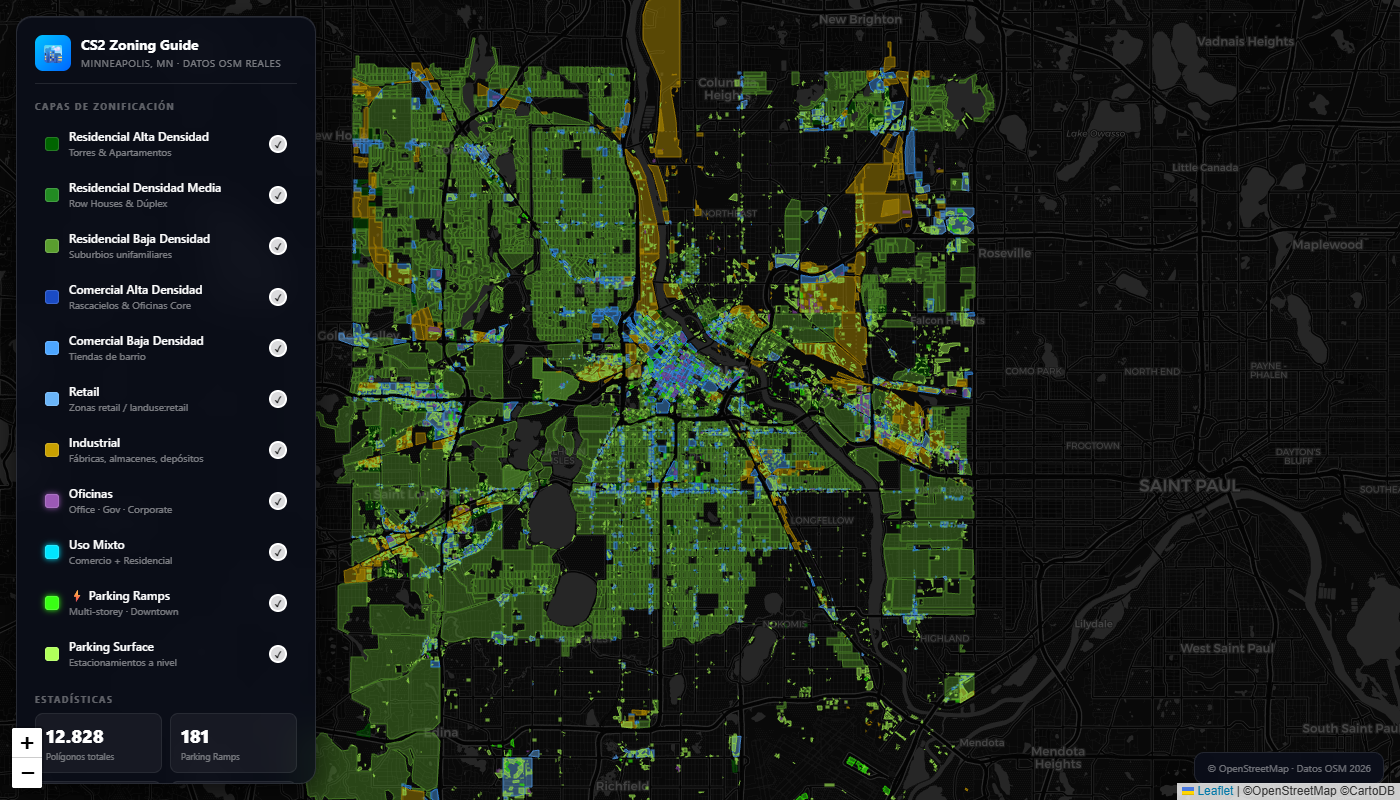
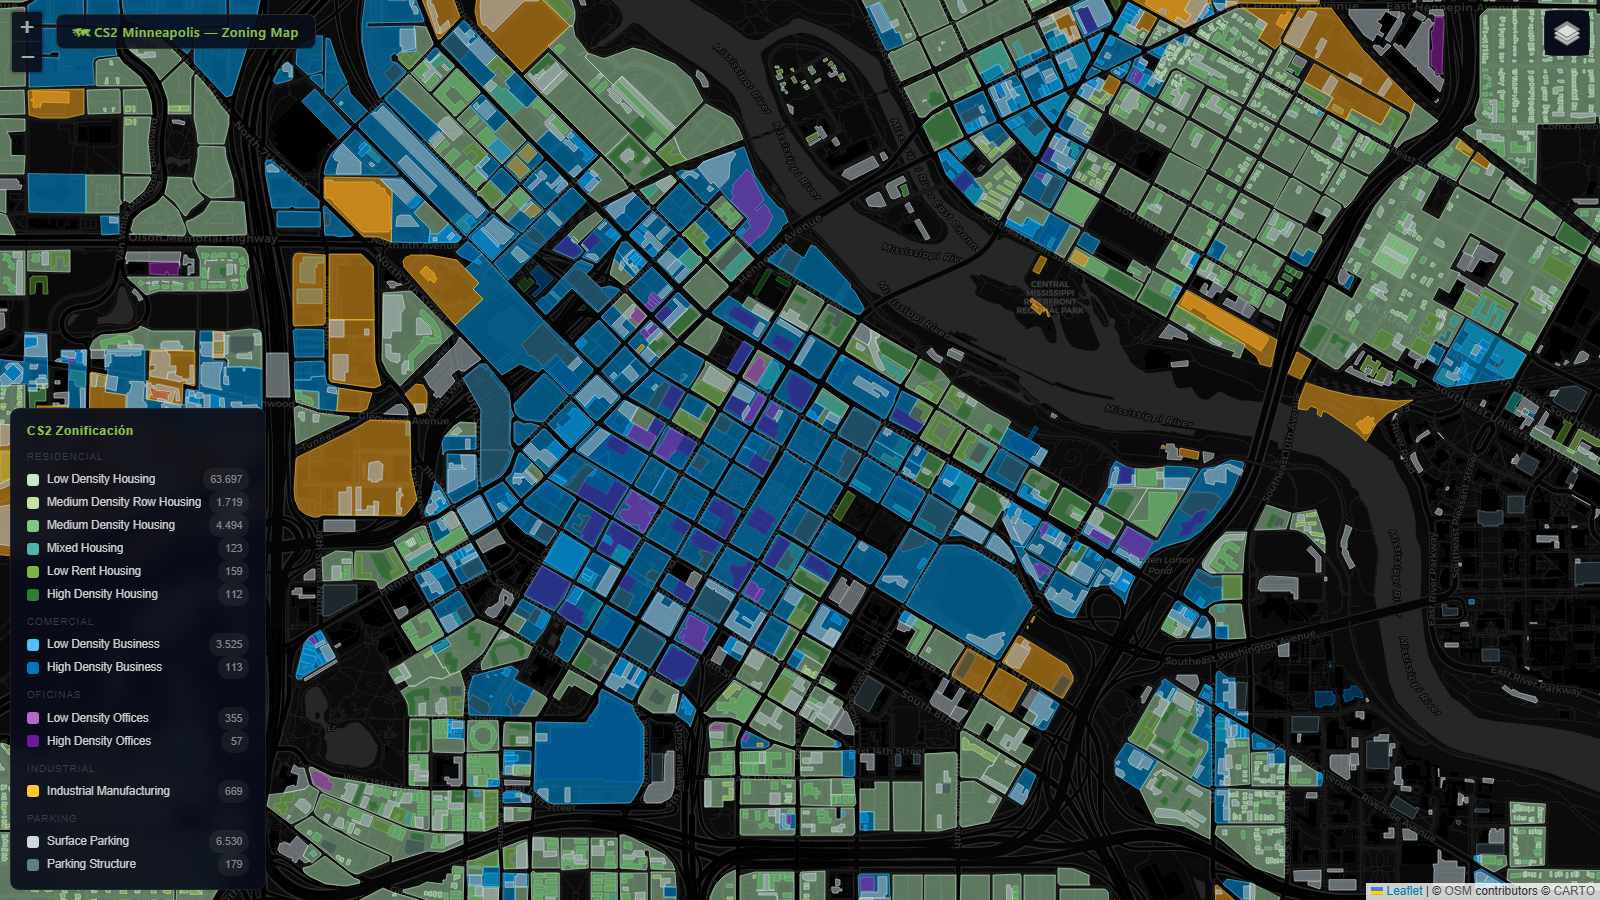
docs: refresh screenshots to v3.0 (Canvas + tier hiding + 13 zones visible)
- Replace v1.0 preview_full.png with fresh capture at zoom 12 showing all
  13 CS2 zones across Minneapolis silhouette
- Replace v1.0 preview_downtown.png with downtown zoom 15 (Mississippi
  River, high-density commercial blocks, office purple visible)
- Add new preview_uptown.png showing residential grid + Bde Maka Ska area
- Add src/take_screenshots.py — Playwright-based screenshot generator
  for anyone who wants to regenerate fresh captures of their own bbox

diff --git a/src/take_screenshots.py b/src/take_screenshots.py
@@ -1,0 +1,66 @@
+"""
+take_screenshots.py — Generate fresh screenshots of the visualizer for the README.
+
+Uses Playwright (headless Chromium) to load the visualizer and capture the map
+at multiple zoom levels. Assumes the python http.server is running on :8080.
+
+Usage:
+    # In one terminal:
+    cd ../visualizer && python -m http.server 8080
+
+    # In another:
+    cd src && uv run --with playwright take_screenshots.py
+    # First time: also run `uv run --with playwright playwright install chromium`
+"""
+
+import sys
+from pathlib import Path
+from playwright.sync_api import sync_playwright
+
+OUT_DIR = Path(__file__).parent.parent / "docs" / "screenshots"
+URL = "http://localhost:8080"
+VIEWPORT = {"width": 1600, "height": 900}
+
+
+def main():
+    OUT_DIR.mkdir(parents=True, exist_ok=True)
+
+    with sync_playwright() as p:
+        browser = p.chromium.launch(headless=True)
+        ctx = browser.new_context(viewport=VIEWPORT)
+        page = ctx.new_page()
+
+        print(f"Loading {URL} ...")
+        page.goto(URL, wait_until="domcontentloaded", timeout=30_000)
+        # Wait for prebuilt data + initial render
+        page.wait_for_function(
+            "() => typeof DATA_RES_LOW_HOUSE !== 'undefined' && document.getElementById('loading').style.display === 'none'",
+            timeout=60_000
+        )
+        print("  OKVisualizer loaded")
+
+        shots = [
+            # (name, [lat, lon], zoom, settle_ms)
+            ("preview_full",     [44.97, -93.27], 12, 4000),
+            ("preview_downtown", [44.978, -93.265], 15, 4000),
+            ("preview_uptown",   [44.948, -93.295], 15, 4000),
+        ]
+
+        for name, center, zoom, settle in shots:
+            print(f"Capturing {name} (center={center}, zoom={zoom}) ...")
+            page.evaluate(f"map.setView({center}, {zoom})")
+            page.wait_for_timeout(settle)
+            # Mover el cursor fuera del mapa para que no aparezca en la captura
+            page.mouse.move(1, 1)
+            out_path = OUT_DIR / f"{name}.png"
+            page.screenshot(path=str(out_path), type="png", full_page=False)
+            size_kb = out_path.stat().st_size // 1024
+            print(f"  OKSaved {out_path.name} ({size_kb} KB)")
+
+        browser.close()
+
+    print(f"\nDone. {len(shots)} screenshots in {OUT_DIR}")
+
+
+if __name__ == "__main__":
+    sys.exit(main() or 0)

diff --git a/README.md b/README.md
@@ -26,7 +26,17 @@ No API keys. No paid services. No PostGIS. Just Python + a single HTML file.
 
 ## Preview
 
-![Map preview](docs/screenshots/preview_full.png)
+![Full Minneapolis at zoom 12 — city silhouette with all zone families visible](docs/screenshots/preview_full.png)
+
+*Full Minneapolis at zoom 12 — block-level zoning visible across the whole city*
+
+![Downtown at zoom 15 — mixed zoning detail](docs/screenshots/preview_downtown.png)
+
+*Downtown at zoom 15 — high-density commercial (blue) + offices (purple) + Mississippi River*
+
+![Uptown at zoom 15 — residential grid](docs/screenshots/preview_uptown.png)
+
+*Uptown / Bde Maka Ska area at zoom 15 — residential grid with commercial corridors along Hennepin & Lyndale*
 
 The default extract covers Minneapolis with **81,732 polygons** across 13 categories: 6 residential subtypes + 2 commercial + 2 office + 1 industrial + 2 parking.
 

diff --git a/README.es.md b/README.es.md
@@ -10,6 +10,17 @@
 
 > 🇬🇧 English version: [README.md](README.md)
 
+## Preview
+
+![Mineapolis completa a zoom 12](docs/screenshots/preview_full.png)
+*Vista completa de Mineapolis a zoom 12 — silueta de la ciudad con todas las familias de zonas*
+
+![Downtown a zoom 15](docs/screenshots/preview_downtown.png)
+*Downtown a zoom 15 — alta densidad comercial (azul), oficinas (morado), río Mississippi*
+
+![Uptown a zoom 15](docs/screenshots/preview_uptown.png)
+*Uptown / Bde Maka Ska a zoom 15 — grid residencial con corredores comerciales*
+
 ## Qué hace
 
 Extrae polígonos de zonificación reales desde OpenStreetMap (via Overpass API), los clasifica en **los 11 tipos de zona oficiales de Cities: Skylines 2** y los renderiza en un mapa interactivo dark-mode que puedes usar como referencia mientras construyes tu ciudad CS2.